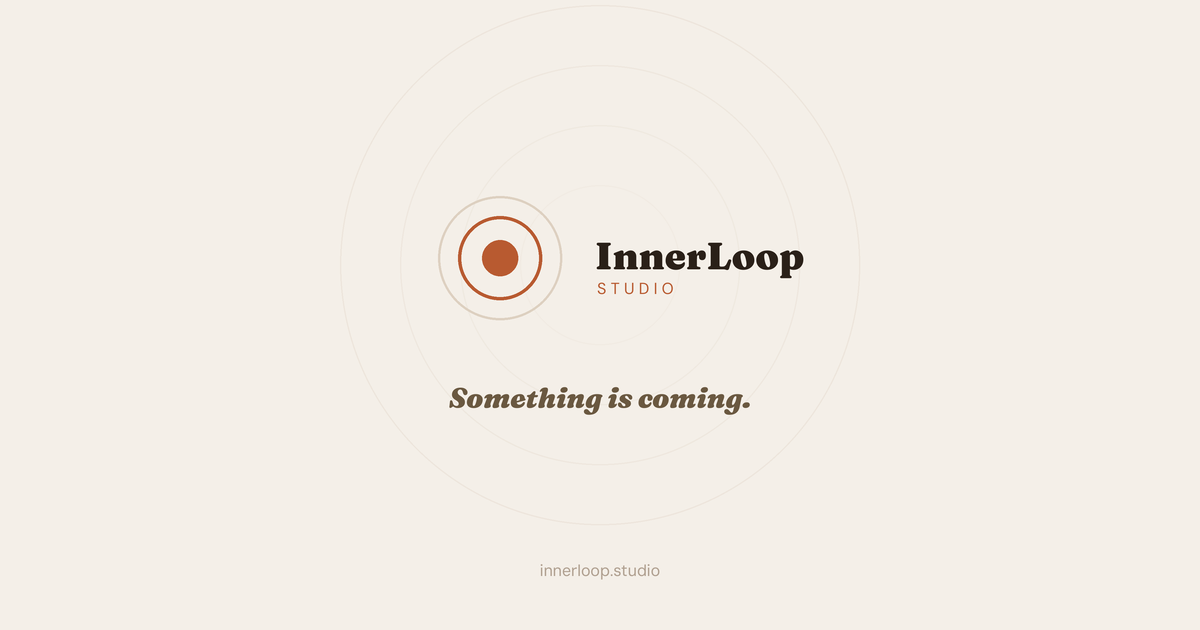
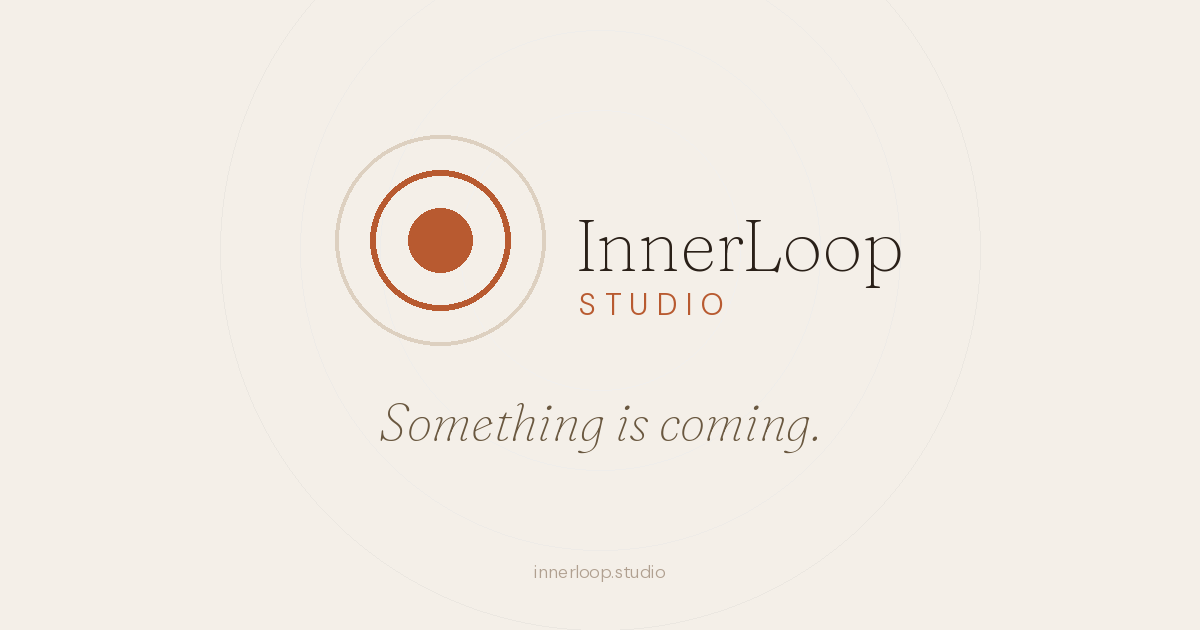
Enlarge OG image elements for better social previews
Scale up logo icon (~1.5x), wordmark (~1.8x), and tagline (~1.85x)
so they remain legible in small preview cards on WhatsApp, iMessage,
Slack, Discord, Twitter/X, LinkedIn, and Facebook. Also add
og:image:width/height meta tags for faster preview rendering.

https://claude.ai/code/session_01XBJCpTvhsqeib7aBAK5Kgr

diff --git a/index.html b/index.html
@@ -15,6 +15,8 @@
   <meta property="og:url" content="https://innerloop.studio">
   <meta property="og:type" content="website">
   <meta property="og:site_name" content="InnerLoop Studio">
+  <meta property="og:image:width" content="1200">
+  <meta property="og:image:height" content="630">
 
   <!-- Twitter -->
   <meta name="twitter:card" content="summary_large_image">
